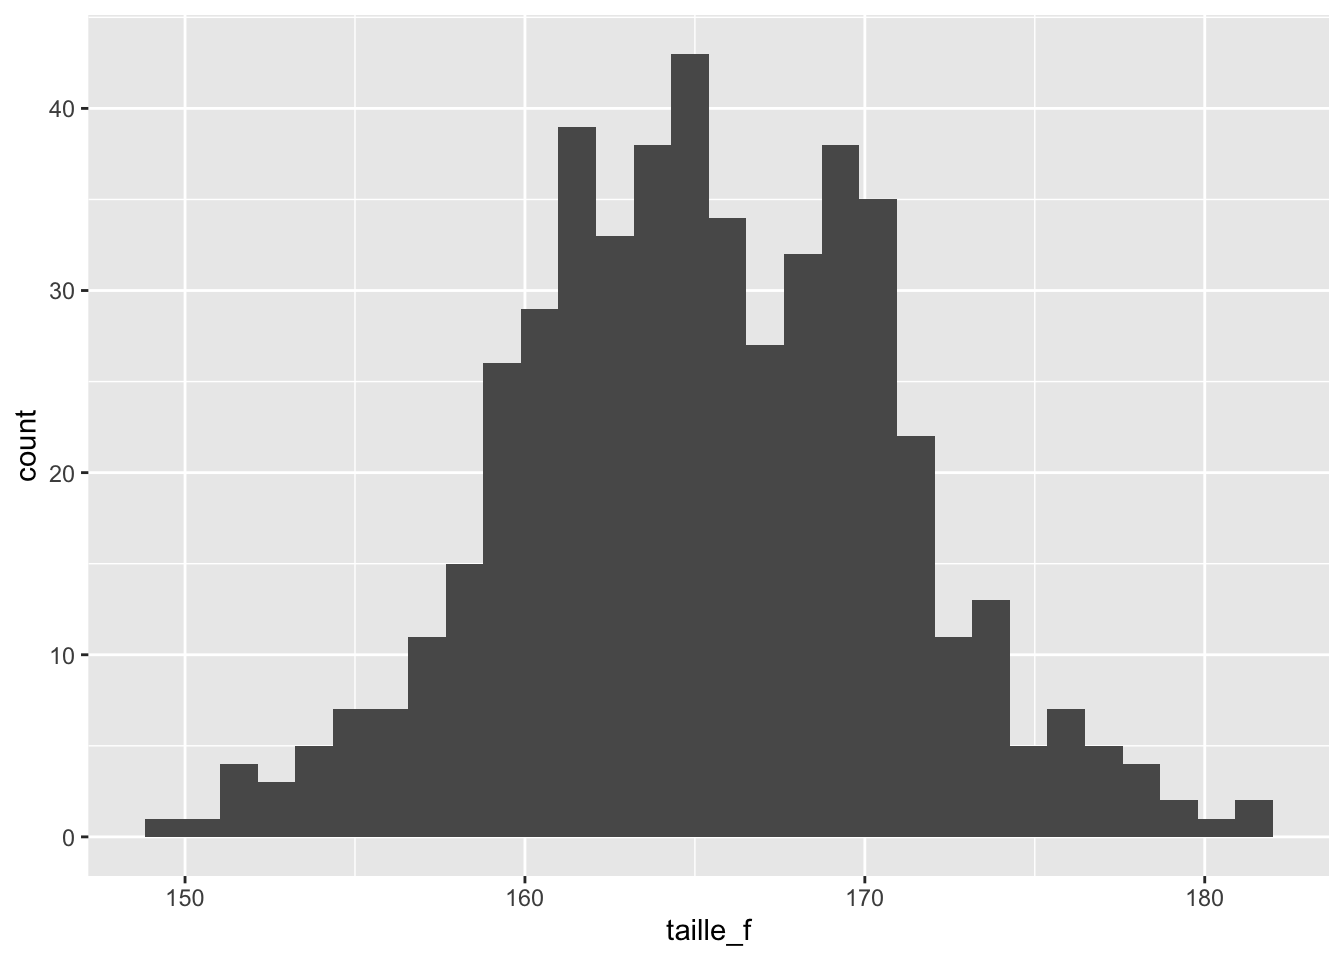
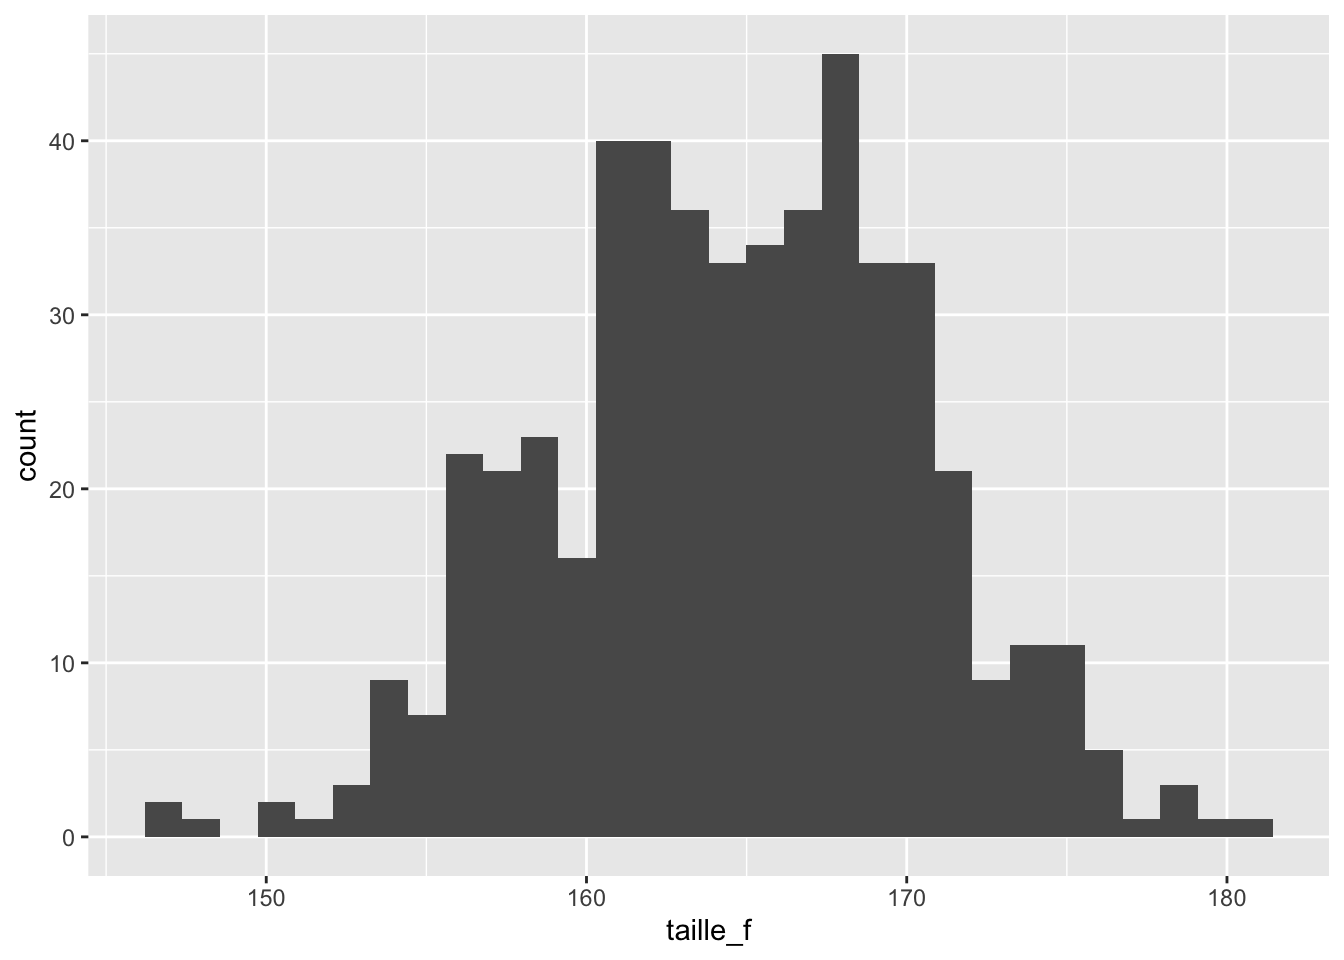
session 12 v4

diff --git a/index.html b/index.html
@@ -70,6 +70,35 @@ pre > code.sourceCode > span > a:first-child::before { text-decoration: underlin
 <link href="index_files/libs/bootstrap/bootstrap-icons.css" rel="stylesheet">
 <link href="index_files/libs/bootstrap/bootstrap.min.css" rel="stylesheet" id="quarto-bootstrap" data-mode="light">
 
+  <script src="https://polyfill.io/v3/polyfill.min.js?features=es6"></script>
+  <script src="https://cdn.jsdelivr.net/npm/mathjax@3/es5/tex-chtml-full.js" type="text/javascript"></script>
+
+<script type="text/javascript">
+const typesetMath = (el) => {
+  if (window.MathJax) {
+    // MathJax Typeset
+    window.MathJax.typeset([el]);
+  } else if (window.katex) {
+    // KaTeX Render
+    var mathElements = el.getElementsByClassName("math");
+    var macros = [];
+    for (var i = 0; i < mathElements.length; i++) {
+      var texText = mathElements[i].firstChild;
+      if (mathElements[i].tagName == "SPAN") {
+        window.katex.render(texText.data, mathElements[i], {
+          displayMode: mathElements[i].classList.contains('display'),
+          throwOnError: false,
+          macros: macros,
+          fleqn: false
+        });
+      }
+    }
+  }
+}
+window.Quarto = {
+  typesetMath
+};
+</script>
 
 </head>
 
@@ -1739,7 +1768,7 @@ Attention
 <span id="cb100-5"><a href="#cb100-5" aria-hidden="true" tabindex="-1"></a></span>
 <span id="cb100-6"><a href="#cb100-6" aria-hidden="true" tabindex="-1"></a><span class="fu">head</span>(taille_f)</span></code><button title="Copy to Clipboard" class="code-copy-button"><i class="bi"></i></button></pre></div>
 <div class="cell-output cell-output-stdout">
-<pre><code>[1] 161.4466 170.1149 158.0802 165.4954 167.7353 162.0055</code></pre>
+<pre><code>[1] 177.8840 164.6464 162.2174 170.1930 173.5382 166.5997</code></pre>
 </div>
 <div class="sourceCode cell-code" id="cb102"><pre class="sourceCode r code-with-copy"><code class="sourceCode r"><span id="cb102-1"><a href="#cb102-1" aria-hidden="true" tabindex="-1"></a><span class="co"># stocker taille_f comme objet de type 'data.frame'</span></span>
 <span id="cb102-2"><a href="#cb102-2" aria-hidden="true" tabindex="-1"></a>taille_f <span class="ot">&lt;-</span> <span class="fu">as.data.frame</span>(taille_f)</span>
@@ -4098,6 +4127,22 @@ Gentoo-Chinstrap 21.363462 19.000841 23.726084     0</code></pre>
 </section>
 <section id="la-régression-linéaire-avec-lm" class="level2">
 <h2 class="anchored" data-anchor-id="la-régression-linéaire-avec-lm">La régression linéaire avec <code>lm()</code></h2>
+<section id="explications-théoriques-de-la-régression-linéaire" class="level3">
+<h3 class="anchored" data-anchor-id="explications-théoriques-de-la-régression-linéaire">Explications théoriques de la régression linéaire</h3>
+<p>Dans le monde réel, nous supposons souvent qu’il existe des <strong>relations de cause à effet</strong>.</p>
+<ul>
+<li>Par exemple, nous pouvons supposer que les personnes ayant un niveau d’éducation élevé ont des salaires plus élevés. Il s’agit bien sûr d’une généralisation et il se peut qu’elle ne soit vraie qu’en moyenne (il se peut que certaines personnes ayant un très faible niveau d’éducation aient des salaires très élevés et vice versa). Néanmoins, malgré quelques exceptions à la règle, nous pouvons raisonnablement supposer qu’en moyenne, une telle relation de cause à effet entre le niveau d’éducation et le salaire existe.</li>
+</ul>
+<p>La question suivante est donc de savoir quelle est l’ampleur d’un tel effet et s’il est possible de le quantifier.</p>
+<ul>
+<li><p>Est-il possible, par exemple, de prédire une augmentation moyenne du salaire en % pour chaque année d’études supplémentaire ? Répondre à une telle question peut s’avérer compliqué pour différentes raisons.</p></li>
+<li><p>Si l’éducation est importante, un certain nombre d’autres facteurs peuvent également influencer le salaire d’une personne, tels que l’âge, le sexe, l’origine, la classe sociale, l’intelligence, les capacités de communication, la résistance au stress et peut-être même la taille, l’attrait physique et l’attitude politique. Si ces autres facteurs ont également une influence sur le salaire, comment déterminer l’impact fractionnel du niveau d’éducation ?</p></li>
+</ul>
+<p>Un autre problème, en particulier dans la pratique, est que nombre de ces autres facteurs peuvent ne pas être disponibles ou être difficiles à mesurer.</p>
+<ul>
+<li>Et même si tous ces facteurs pouvaient être observés et contrôlés, la relation entre le niveau d’éducation et le salaire sera toujours soumise à un certain degré de hasard. Peut-être y a-t-il d’autres facteurs inconnus, ou peut-être y a-t-il simplement une fluctuation inexplicable du niveau de salaire entre tous les individus, même ceux qui ont des qualifications et des profils socio-économiques très similaires.</li>
+</ul>
+<p>Une solution possible pour quantifier néanmoins la relation de causalité entre deux variables, telles que le niveau d’éducation et le salaire des personnes, malgré ces incertitudes, est d’effectuer une <strong>analyse de régression linéaire</strong> !</p>
 <div class="callout callout-style-default callout-note callout-titled">
 <div class="callout-header d-flex align-content-center">
 <div class="callout-icon-container">
@@ -4108,15 +4153,62 @@ Gentoo-Chinstrap 21.363462 19.000841 23.726084     0</code></pre>
 </div>
 </div>
 <div class="callout-body-container callout-body">
+<p>La régression linéaire est une méthode statistique utilisée pour modéliser la relation linéaire entre une <strong>variable à expliquer (y)</strong> et une ou plusieurs <strong>variables explicatives (x1, x2, etc.)</strong>.</p>
+<ul>
+<li><p>La variable à expliquer, y, est parfois aussi appelée <strong>variable dépendante</strong> ou <strong>variable de réponse</strong> et, en anglais, <strong>output variable</strong>, <strong>response variable</strong>, <strong>predicted variable</strong></p></li>
+<li><p>Les variables explicatives, x, quant à eux, sont aussi appelées <strong>variables indépendantes</strong> ou <strong>prédicteurs</strong> et, en anglais, <strong>input variables</strong>, <strong>predictor variables</strong>.</p></li>
+</ul>
+<p>Nous parlons de régression linéaire <strong>simple</strong>, si il y a seulement une variable explicative x et de régression linéaire <strong>multiple</strong> si il y a plus d’une variable explicative, p.&nbsp;ex. x1, x2, x3, etc.</p>
+</div>
+</div>
+<p>En analyse de données, un modèle de régression a deux principaux types d’applications possibles :</p>
+<ul>
+<li><p><strong>Explication (causale)</strong> : Si nous supposons qu’il existe une relation causale entre y et x, nous pouvons expliquer les variations observées de y en termes de variations observées de x.</p>
+<ul>
+<li>Par exemple, considérons un échantillon aléatoire de données sur la taille et le poids des personnes. Nous pouvons supposer qu’en moyenne, les personnes plus grandes pèsent plus que les personnes plus petites (relation de cause à effet). Par conséquent, nous pourrions développer un modèle de régression qui explique les variations de poids (y) en termes de variations de taille (x).</li>
+</ul></li>
+<li><p><strong>Prédiction</strong> : Si nous disposons d’un échantillon représentatif de données contenant des observations des valeurs y et x, nous pouvons adapter un modèle de régression aux données. Par la suite, nous pouvons utiliser le modèle de régression pour un nouvel ensemble de données qui ne contient que des valeurs x et prédire les valeurs y correspondantes.</p>
+<ul>
+<li>Supposons par exemple que vous soyez un agent immobilier. Vous disposez d’un ensemble de données de 200 ventes de maisons dans une ville au cours des cinq derniers mois, qui contient le prix de vente (y) et la taille de la maison en mètres carrés (x). Vous pouvez maintenant adapter un modèle de régression à vos données et l’utiliser pour prédire les prix de vente attendus des maisons actuellement sur le marché en fonction de leurs superficie (x), que vous connaissez.</li>
+</ul></li>
+</ul>
+<p>Notez qu’un modèle de régression linéaire, comme tout modèle, est toujours <strong>une simplification de la réalité</strong>. Par conséquent, la précision des modèles de régression linéaire appliqués à des données réelles ne sera jamais de 100 %, c’est-à-dire qu’elle est sujette à une erreur d’estimation.</p>
+<p>Comprendre (et aussi quantifier) cette déviation du modèle de régression par rapport aux valeurs observées est également une étape importante de toute analyse de régression, comme nous le verrons par la suite.</p>
+<p>Au niveau technique, l’objectif de la régression linéaire est de spécifier une équation mathématique, appelée <strong>modèle de régression</strong>, qui quantifie la relation entre les variables y et x sur la base d’un ensemble d’observations.</p>
+<p>Par exemple, dans le cas d’une régression linéaire simple avec une variable x, nous utiliserions l’équation suivante :</p>
+<p><span class="math display">\[
+y = \beta_0 + \beta_1 x + \epsilon
+\]</span> où :</p>
+<ul>
+<li><p><span class="math inline">\(y\)</span> est la variable à expliquer</p></li>
+<li><p><span class="math inline">\(x\)</span> est la variable explicative.</p></li>
+<li><p><span class="math inline">\(\beta_0\)</span> est l’ordonnée à l’origine de la droite de régression.</p></li>
+<li><p><span class="math inline">\(\beta_1\)</span> est la pente de la droite de régression.</p></li>
+<li><p><span class="math inline">\(\epsilon\)</span> est le terme d’erreur aléatoire</p></li>
+</ul>
+<div class="callout callout-style-default callout-note callout-titled">
+<div class="callout-header d-flex align-content-center">
+<div class="callout-icon-container">
+<i class="callout-icon"></i>
+</div>
+<div class="callout-title-container flex-fill">
+À noter
+</div>
+</div>
+<div class="callout-body-container callout-body">
+<p>Si cela est trop abstrait pour certaines personnes : Nous pourrions également dire que, d’un point de vue pratique, l’objectif d’une régression linéaire simple est d’ajuster une ligne droite à un nuage de points. Le modèle de régression serait la droite de régression qui modélise la relation entre les variables y et x (les observations sous la forme d’un nuage de points).</p>
+</div>
+</div>
+</section>
+<section id="la-fonction-lm" class="level3">
+<h3 class="anchored" data-anchor-id="la-fonction-lm">La fonction <code>lm()</code></h3>
 <p>La fonction <strong><code>lm()</code></strong> dans R est utilisée pour ajuster un modèle de régression linéaire. Elle est couramment utilisée dans le contexte de la régression linéaire pour étudier la relation entre une variable dépendante (<code>y</code>) et une ou plusieurs variables indépendantes (<code>x1</code>, <code>x2</code>, etc.).</p>
-<p>Nous parlons de régression linéaire <strong>multiple</strong> si il y a plus d’une variable indépendante.</p>
-</div>
-</div>
 <p>La syntaxe de base de la fonction <code>lm()</code> est la suivante : <strong><code>lm(formula, data)</code></strong>.</p>
 <ul>
 <li><p>L’argument <code>formula</code> désigne une formule qui décrit le modèle à ajuster. Par exemple, <code>y ~ x1 + x2</code> signifie que la variable dépendante y est modélisée en fonction des variables indépendantes x1 et x2.</p></li>
 <li><p>L’argument <code>data</code> requiert l’indication du jeu de données que la régression doit utiliser en tant qu’entrée contenant les variables mentionnées dans la formule.</p></li>
 </ul>
+</section>
 <section id="exemple-1-la-régression-linéaire-à-une-variable-avec-mtcars" class="level3">
 <h3 class="anchored" data-anchor-id="exemple-1-la-régression-linéaire-à-une-variable-avec-mtcars">Exemple 1 : La régression linéaire à une variable avec <code>mtcars</code></h3>
 <p>Voici un exemple d’utilisation de la fonction <code>lm()</code> avec le jeu de données <code>mtcars</code> : <code>lm(mpg ~ wt, data = mtcars)</code></p>
@@ -4173,11 +4265,16 @@ F-statistic: 91.38 on 1 and 30 DF,  p-value: 0.0000000001294</code></pre>
 <iframe width="560" height="315" src="https://www.youtube.com/embed/u1cc1r_Y7M0?si=TBPst3RY5jKWxIyu" title="YouTube video player" frameborder="0" allow="accelerometer; autoplay; clipboard-write; encrypted-media; gyroscope; picture-in-picture; web-share" referrerpolicy="strict-origin-when-cross-origin" allowfullscreen="">
 </iframe>
 <p><strong>Les graphiques de diagnostic</strong></p>
-<p>Les graphiques de diagnostic (angl. diagnostic plots) sont des graphiques utilisés pour évaluer la qualité d’un modèle de régression linéaire et vérifier si les hypothèses du modèle sont satisfaites (p.&nbsp;ex. si les variables suivent approximativement une loi normale). En utilisant la fonction <code>plot()</code> après avoir calculé un modèle de régression linéaire avec <code>lm()</code> dans R, nous pouvons visualiser quatre types de plots diagnostiques :</p>
+<p>Les graphiques de diagnostic (angl. diagnostic plots) sont des graphiques utilisés pour évaluer la qualité d’un modèle de régression linéaire et vérifier si les hypothèses du modèle sont satisfaites (p. ex. si les variables suivent approximativement une loi normale).</p>
+<p>En utilisant la fonction <code>plot()</code> après avoir calculé un modèle de régression linéaire dans R, nous pouvons visualiser quatre types de plots diagnostiques :</p>
 <div class="cell">
-<div class="sourceCode cell-code" id="cb235"><pre class="sourceCode r code-with-copy"><code class="sourceCode r"><span id="cb235-1"><a href="#cb235-1" aria-hidden="true" tabindex="-1"></a><span class="co"># Afficher les graphiques de diagnostic</span></span>
-<span id="cb235-2"><a href="#cb235-2" aria-hidden="true" tabindex="-1"></a><span class="fu">par</span>(<span class="at">mfrow =</span> <span class="fu">c</span>(<span class="dv">2</span>, <span class="dv">2</span>))</span>
-<span id="cb235-3"><a href="#cb235-3" aria-hidden="true" tabindex="-1"></a><span class="fu">plot</span>(modele_1)</span></code><button title="Copy to Clipboard" class="code-copy-button"><i class="bi"></i></button></pre></div>
+<div class="sourceCode cell-code" id="cb235"><pre class="sourceCode r code-with-copy"><code class="sourceCode r"><span id="cb235-1"><a href="#cb235-1" aria-hidden="true" tabindex="-1"></a><span class="co"># Cette commande fait en sorte que les graphes de</span></span>
+<span id="cb235-2"><a href="#cb235-2" aria-hidden="true" tabindex="-1"></a><span class="co"># diagnostic soient tous affichés en même temps, sur un</span></span>
+<span id="cb235-3"><a href="#cb235-3" aria-hidden="true" tabindex="-1"></a><span class="co"># panneau 2 X 2 :</span></span>
+<span id="cb235-4"><a href="#cb235-4" aria-hidden="true" tabindex="-1"></a><span class="fu">par</span>(<span class="at">mfrow =</span> <span class="fu">c</span>(<span class="dv">2</span>, <span class="dv">2</span>))</span>
+<span id="cb235-5"><a href="#cb235-5" aria-hidden="true" tabindex="-1"></a></span>
+<span id="cb235-6"><a href="#cb235-6" aria-hidden="true" tabindex="-1"></a><span class="co"># Afficher ensuite les graphiques de diagnostic :</span></span>
+<span id="cb235-7"><a href="#cb235-7" aria-hidden="true" tabindex="-1"></a><span class="fu">plot</span>(modele_1)</span></code><button title="Copy to Clipboard" class="code-copy-button"><i class="bi"></i></button></pre></div>
 <div class="cell-output-display">
 <div>
 <figure class="figure">
@@ -4186,9 +4283,16 @@ F-statistic: 91.38 on 1 and 30 DF,  p-value: 0.0000000001294</code></pre>
 </div>
 </div>
 </div>
-<p>Explications des quatre graphiques diagnostiques : (<strong>SOUS CONSTRUCTION</strong>)</p>
-<p>En examinant ces graphiques de diagnostic, nous pouvons évaluer si les hypothèses du modèle de régression linéaire sont satisfaites, telles que l’indépendance des résidus, l’homoscédasticité, la linéarité et la normalité des résidus. Si les hypothèses ne sont pas satisfaites, cela peut indiquer que le modèle n’est pas adéquat et qu’une transformation des données ou une sélection de variables différente peut être nécessaire.</p>
-<p>Dans la pratique, <strong>il suffit d’évaluer visuellement les graphiques de diagnostic</strong>. Si les lignes rouges qui indiquent les valeurs moyennes des résidus (les points) ne s’écartent pas de manière importante des lignes pointillées, le modèle de régression est bon à utiliser. Si les écarts sont importants, il peut être nécessaire de trouver un autre modèle ou de transformer les données (par exemple, transformation logarithmique, etc.). Dans le cas spécifique, les graphique de diagnostic sont acceptable.</p>
+<p><strong>Explications des quatre graphiques diagnostiques</strong> :</p>
+<ol type="1">
+<li><p><strong>Residuals vs Fitted</strong> : Ce graphique montre si les résidus (la distance entre les valeurs modélisées et observées) présentent des tendances non linéaires. Il peut y avoir une relation non linéaire entre les variables explicatives x et une variable expliquée y, et le schéma peut apparaître dans ce graphique si le modèle ne capture pas la relation non linéaire. Si vous trouvez des résidus plus ou moins uniformément répartis (approximés par la ligne rouge) autour de la ligne horizontale en pointillés sans tendances distinctes, c’est une bonne indication que vous n’avez pas de relations non linéaires.</p></li>
+<li><p><strong>Q-Q Residuals</strong> : Ce graphique montre si les résidus (les points) suivent une loi normale. Les résidus se situent-ils plus ou moins sur la ligne droite diagonale en pointillés ou s’en écartent-ils fortement ? C’est une bonne chose si les résidus sont bien alignés sur la ligne droite en pointillés.</p></li>
+<li><p><strong>Scale-Location</strong> : Ce graphique affiche les valeurs ajustées d’un modèle de régression sur l’axe des abscisses et la racine carrée des résidus standardisés sur l’axe des ordonnées. C’est ainsi que vous pouvez vérifier l’hypothèse de variance égale (homoscédasticité). C’est une bonne chose si vous voyez une ligne rouge plus ou moins horizontale avec des points répartis de manière égale (au hasard) autour d’elle.</p></li>
+<li><p><strong>Residuals vs Leverage</strong> : Ce graphique permet d’identifier les valeurs aberrantes influentes (valeurs extrêmes) dans les données qui peuvent affecter le modèle de régression linéaire. Toutes les valeurs aberrantes ne sont pas nécessairement influentes ; certaines peuvent ne pas avoir d’impact significatif sur le modèle de régression, ce qui signifie que les résultats de l’analyse de régression restent similaires, que ces cas soient inclus ou exclus. Cependant, certaines valeurs aberrantes peuvent avoir une grande influence et modifier les résultats si elles sont exclues, car elles ne s’alignent pas sur la tendance générale. Dans ce graphique, nous nous concentrons sur les valeurs aberrantes situées dans les coins supérieurs ou inférieurs droits, en dehors des lignes pointillées, qui indiquent des scores élevés de « distance de Cook ». Ces cas ont un impact significatif sur les résultats de la régression et doivent être notés.</p></li>
+</ol>
+<p>En examinant ces graphiques de diagnostic, nous pouvons évaluer si les hypothèses du modèle de régression linéaire sont satisfaites, telles que l’indépendance des résidus, l’homoscédasticité, la linéarité et la normalité des résidus.</p>
+<p>Si les graphiques de diagnostic montrent que les hypothèses ne sont pas satisfaites, cela peut indiquer que le modèle n’est pas adéquat et qu’une transformation des données ou une sélection de variables différente peut être nécessaire.</p>
+<p>Dans le cas spécifique du modèle de régression <code>modele_1</code>, qui modélise <code>mpg ~ wt</code> dans le jeu de données <code>mtcars</code>, les graphique de diagnostic sont tout à fait acceptable.</p>
 </section>
 <section id="exemple-2-la-régression-linéaire-multiple-avec-mtcars" class="level3">
 <h3 class="anchored" data-anchor-id="exemple-2-la-régression-linéaire-multiple-avec-mtcars">Exemple 2 : La régression linéaire multiple avec <code>mtcars</code></h3>
